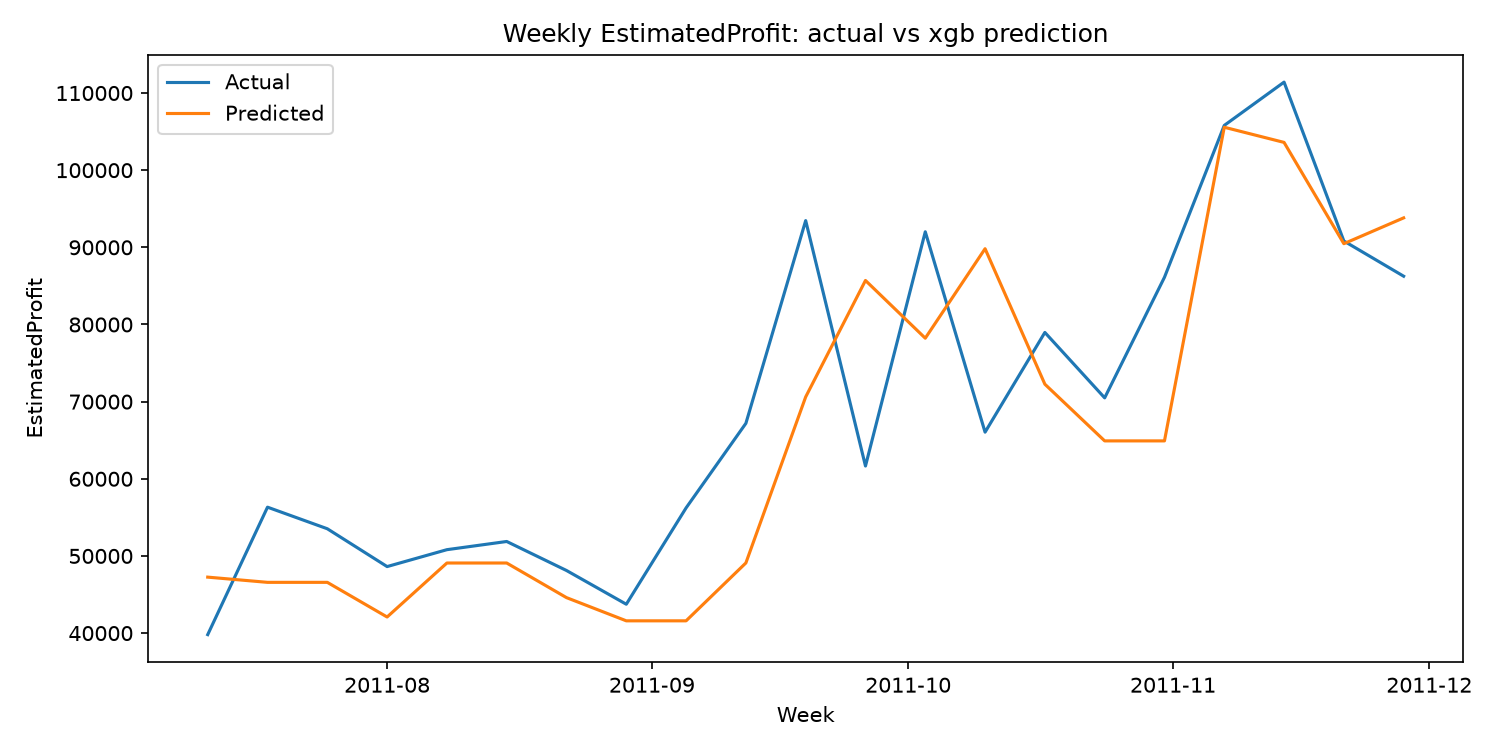
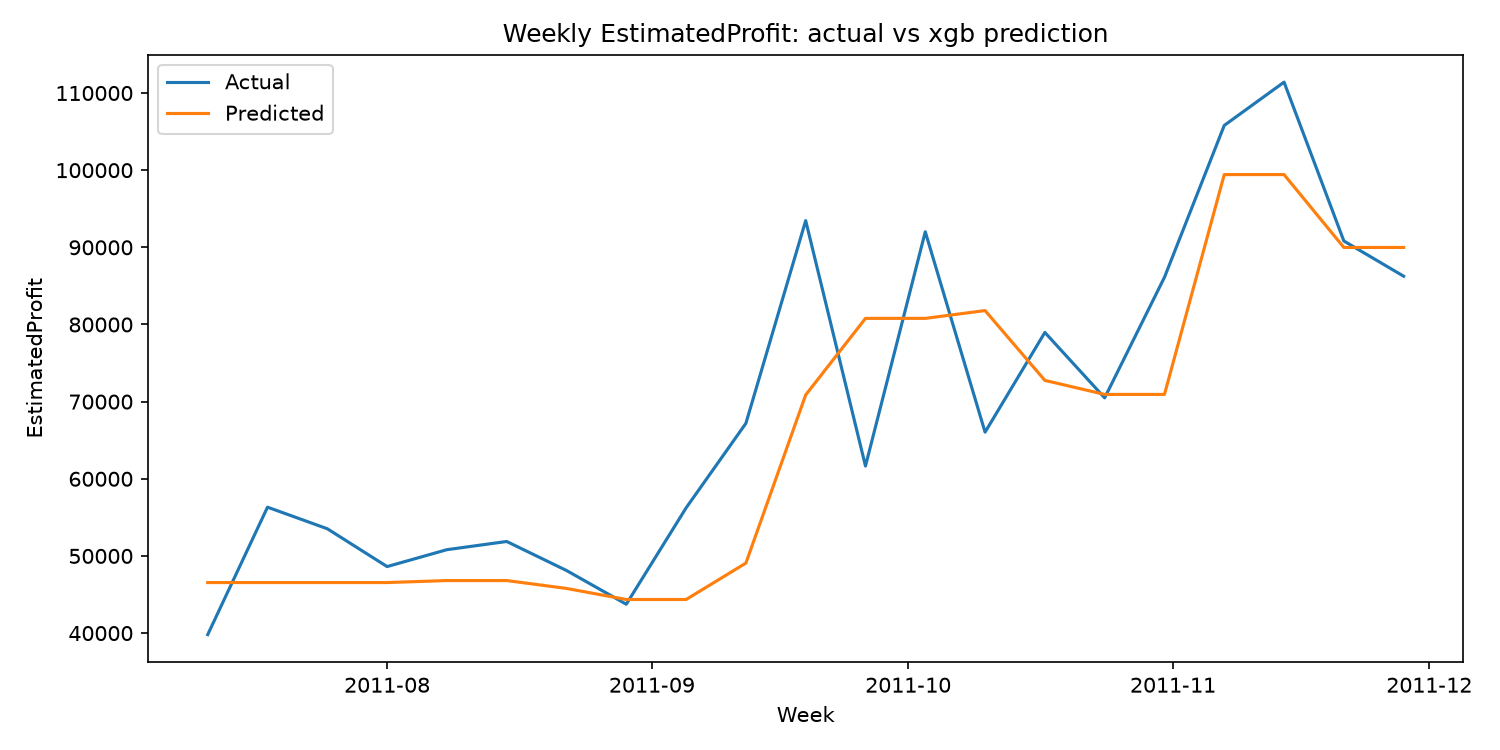
Week 4: final evaluation, edge cases, optimization, documentation, Streamlit demo

diff --git a/src/app/demo_app.py b/src/app/demo_app.py
@@ -1,0 +1,126 @@
+from __future__ import annotations
+
+from pathlib import Path
+
+import joblib
+import pandas as pd
+import streamlit as st
+
+ROOT = Path(__file__).resolve().parents[2]
+DATA_DIR = ROOT / "data" / "processed"
+MODELS_DIR = ROOT / "models"
+
+
+@st.cache_data
+def load_data():
+    weekly = pd.read_csv(DATA_DIR / "weekly_product_features.csv", parse_dates=["Period"])
+    customer_snapshot = pd.read_csv(DATA_DIR / "customer_rfm_asof.csv", parse_dates=["CutoffDate"])
+    transactions = pd.read_csv(DATA_DIR / "feature_transactions.csv")
+    alerts = pd.read_csv(DATA_DIR / "low_stock_alerts.csv")
+    insights = joblib.load(MODELS_DIR / "insights_summary.joblib") if (MODELS_DIR / "insights_summary.joblib").exists() else None
+    return weekly, customer_snapshot, transactions, alerts, insights
+
+
+@st.cache_data
+def load_segment_artifact():
+    return joblib.load(MODELS_DIR / "customer_segmentation.joblib")
+
+
+@st.cache_data
+def load_peak_artifact():
+    return joblib.load(MODELS_DIR / "peak_hour_model.joblib")
+
+
+@st.cache_data
+def load_profit_artifact():
+    return joblib.load(MODELS_DIR / "profit_forecast_model.joblib")
+
+
+@st.cache_data
+def load_forecast_artifact():
+    return joblib.load(MODELS_DIR / "baseline_xgb_units.joblib")
+
+
+@st.cache_data
+def load_insights_summary():
+    if (ROOT / "models" / "insights_summary.joblib").exists():
+        return joblib.load(ROOT / "models" / "insights_summary.joblib")
+    return {"insights": ["No insights file found."], "surprise": {}}
+
+
+@st.cache_data
+def product_forecast_for(product_code: str, weekly: pd.DataFrame):
+    product_history = weekly[weekly["StockCode"] == product_code].sort_values("Period").copy()
+    if product_history.empty:
+        return pd.DataFrame(columns=["Period", "Units"])
+    recent = product_history.tail(8).copy()
+    recent["prediction"] = recent["Units"].rolling(4, min_periods=1).mean().round(2)
+    return recent[["Period", "Units", "prediction"]]
+
+
+def segment_for_customer(customer_id: int, customer_snapshot: pd.DataFrame, artifact: dict):
+    row = customer_snapshot[customer_snapshot["Customer ID"] == customer_id]
+    if row.empty:
+        return "Unknown customer"
+    features = row[["Recency", "Frequency", "Monetary"]].copy()
+    if "Monetary" in features.columns and features["Monetary"].skew() > 1:
+        features["Monetary"] = features["Monetary"].apply(lambda x: x if pd.isna(x) else x)
+    scaled = artifact["scaler"].transform(features)
+    label = artifact["model"].predict(scaled)[0]
+    return artifact["segment_labels"].get(int(label), "Regular")
+
+
+st.title("SmartPOS ML demo")
+st.caption("Live saved-model dashboard; no retraining in the app.")
+
+weekly, customer_snapshot, transactions, alerts, _ = load_data()
+segment_artifact = load_segment_artifact()
+peak_artifact = load_peak_artifact()
+profit_artifact = load_profit_artifact()
+forecast_artifact = load_forecast_artifact()
+insight_payload = load_insights_summary()
+
+product_options = sorted(weekly["StockCode"].dropna().unique().tolist())
+selected_product = st.selectbox("Select a product", product_options[:500])
+forecast_df = product_forecast_for(selected_product, weekly)
+
+st.subheader("Forecast for selected product")
+if forecast_df.empty:
+    st.warning("No historical product data found for this selection.")
+else:
+    st.dataframe(forecast_df.tail(8), use_container_width=True)
+    st.line_chart(forecast_df.set_index("Period")[["Units", "prediction"]])
+    last_units = float(forecast_df["Units"].iloc[-1])
+    rolling_avg = float(forecast_df["prediction"].iloc[-1])
+    st.metric("Most recent units", round(last_units, 2))
+    st.metric("Rolling forecast", round(rolling_avg, 2))
+
+st.subheader("Customer segment lookup")
+customer_ids = sorted(customer_snapshot["Customer ID"].dropna().unique().tolist())
+customer_id = st.selectbox("Select customer ID", customer_ids[:1000])
+segment = segment_for_customer(customer_id, customer_snapshot, segment_artifact)
+st.write(f"Segment for customer {customer_id}: {segment}")
+
+st.subheader("Low-stock alerts")
+st.dataframe(alerts.head(20), use_container_width=True)
+
+st.subheader("Profit forecast")
+profit_period = pd.Timestamp(weekly["Period"].max()) + pd.Timedelta(weeks=1)
+profit_features = pd.DataFrame({
+    "year": [profit_period.year],
+    "month": [profit_period.month],
+    "week": [int(profit_period.isocalendar().week)],
+})
+profit_value = float(profit_artifact["model"].predict(profit_features)[0])
+st.metric("Estimated next-period profit", round(profit_value, 2))
+
+st.subheader("Peak-hour chart")
+positive = transactions[transactions["is_positive_sale"] == True].copy()
+hourly = positive.groupby("Hour", as_index=False).size().rename(columns={"size": "transaction_count"})
+st.bar_chart(hourly.set_index("Hour")["transaction_count"])
+
+st.subheader("AI Sales Insights summary")
+for line in insight_payload.get("insights", []):
+    st.write("- " + line)
+
+st.caption("Saved artifact sources: baseline_xgb_units.joblib, customer_segmentation.joblib, stockout_alerts.joblib, profit_forecast_model.joblib, peak_hour_model.joblib.")

diff --git a/src/models/peak_hour.py b/src/models/peak_hour.py
@@ -43,7 +43,7 @@ def build_busy_label(data=None):
 
 
 def train_peak_hour_classifier(data=None):
-    """Train a classifier to predict busy vs quiet hours from calendar features."""
+    """Train a weighted XGBoost classifier to improve recall for the busy class."""
     transactions = load_feature_transactions() if data is None else data.copy()
     positive = transactions[transactions["is_positive_sale"] == True].copy()
     hourly = positive.groupby(["Hour", "DayOfWeek", "Month"], as_index=False).size().rename(columns={"size": "transaction_count"})
@@ -55,29 +55,36 @@ def train_peak_hour_classifier(data=None):
     y = hourly["busy"]
     X_train, X_test, y_train, y_test = train_test_split(X, y, test_size=0.25, random_state=42, stratify=y)
 
+    class_weight = (y_train == 0).sum() / max(1, (y_train == 1).sum())
     xgb = XGBClassifier(
         n_estimators=200,
         max_depth=3,
         learning_rate=0.05,
         objective="binary:logistic",
         random_state=42,
+        scale_pos_weight=class_weight,
     )
     xgb.fit(X_train, y_train)
-    xgb_pred = xgb.predict(X_test)
-    xgb_report = classification_report(y_test, xgb_pred, output_dict=True, zero_division=0)
+    xgb_prob = xgb.predict_proba(X_test)[:, 1]
 
-    rf = RandomForestClassifier(n_estimators=300, random_state=42)
-    rf.fit(X_train, y_train)
-    rf_pred = rf.predict(X_test)
-    rf_report = classification_report(y_test, rf_pred, output_dict=True, zero_division=0)
+    thresholds = [0.35, 0.4, 0.45, 0.5, 0.55, 0.6, 0.65]
+    best_threshold = 0.5
+    best_report = classification_report(y_test, (xgb_prob >= best_threshold).astype(int), output_dict=True, zero_division=0)
+    best_recall = best_report["1"]["recall"]
+    for threshold_value in thresholds:
+        pred = (xgb_prob >= threshold_value).astype(int)
+        report = classification_report(y_test, pred, output_dict=True, zero_division=0)
+        recall = report["1"]["recall"]
+        if recall > best_recall:
+            best_threshold = threshold_value
+            best_recall = recall
+            best_report = report
 
-    best_name = "xgb" if xgb_report["accuracy"] >= rf_report["accuracy"] else "rf"
-    best_model = xgb if best_name == "xgb" else rf
-    best_pred = xgb_pred if best_name == "xgb" else rf_pred
-    best_report = xgb_report if best_name == "xgb" else rf_report
+    best_pred = (xgb_prob >= best_threshold).astype(int)
+    best_name = "xgb_weighted"
 
     MODEL_PATH.parent.mkdir(parents=True, exist_ok=True)
-    joblib.dump({"model": best_model, "features": features, "model_name": best_name, "report": best_report}, MODEL_PATH)
+    joblib.dump({"model": xgb, "features": features, "model_name": best_name, "threshold": best_threshold, "report": best_report}, MODEL_PATH)
 
     FIGURE_DIR.mkdir(parents=True, exist_ok=True)
     cm = confusion_matrix(y_test, best_pred)
@@ -100,18 +107,21 @@ def train_peak_hour_classifier(data=None):
     return {
         "hourly_summary": hourly,
         "best_model": best_name,
+        "model_name": best_name,
+        "threshold": best_threshold,
         "report": best_report,
         "plot_path": plot_path,
     }
 
 
 def predict_busy_hour(day_of_week, month):
-    """Predict busy vs quiet for a hour-like feature row."""
+    """Predict busy vs quiet for a hour-like feature row using the tuned probability threshold."""
     artifact = joblib.load(MODEL_PATH)
     model = artifact["model"]
     sample = pd.DataFrame({"DayOfWeek": [day_of_week], "Month": [month]})
-    prediction = model.predict(sample[artifact["features"]])
-    return int(prediction[0])
+    probabilities = model.predict_proba(sample[artifact["features"]])[:, 1]
+    threshold = artifact.get("threshold", 0.5)
+    return int(probabilities[0] >= threshold)
 
 
 def generate():

diff --git a/src/models/profit_forecast.py b/src/models/profit_forecast.py
@@ -10,6 +10,7 @@ import numpy as np
 import pandas as pd
 from sklearn.linear_model import LinearRegression
 from sklearn.metrics import mean_absolute_error, mean_squared_error
+from sklearn.model_selection import GridSearchCV
 from xgboost import XGBRegressor
 
 ROOT = Path(__file__).resolve().parents[2]
@@ -53,7 +54,7 @@ def chronological_split(data, test_fraction=0.2):
 
 
 def train_profit_model(data=None, target="EstimatedProfit", test_fraction=0.2):
-    """Train baseline profit models and save the best one."""
+    """Train profit models and keep the best tuned XGBoost variant when it improves hold-out performance."""
     weekly = _aggregate_weekly(load_profit_data() if data is None else data.copy(), target)
     train, test = chronological_split(weekly, test_fraction)
 
@@ -64,24 +65,40 @@ def train_profit_model(data=None, target="EstimatedProfit", test_fraction=0.2):
     linear_pred = linear.predict(test_features)
     linear_metrics = regression_metrics(test[target], linear_pred)
 
+    param_grid = {
+        "n_estimators": [200, 250, 400],
+        "max_depth": [3, 4, 5],
+        "learning_rate": [0.03, 0.05],
+    }
+    xgb_search = GridSearchCV(
+        XGBRegressor(
+            objective="reg:squarederror",
+            random_state=42,
+            n_jobs=2,
+        ),
+        param_grid=param_grid,
+        scoring="neg_root_mean_squared_error",
+        cv=3,
+        n_jobs=1,
+    )
+    xgb_search.fit(train_features, train[target])
+    best_params = xgb_search.best_params_
     xgb = XGBRegressor(
-        n_estimators=250,
-        max_depth=4,
-        learning_rate=0.05,
         objective="reg:squarederror",
         random_state=42,
         n_jobs=2,
+        **best_params,
     )
     xgb.fit(train_features, train[target])
     xgb_pred = xgb.predict(test_features)
     xgb_metrics = regression_metrics(test[target], xgb_pred)
 
-    best = {"name": "xgb", "model": xgb, "metrics": xgb_metrics, "prediction": xgb_pred}
+    best = {"name": "xgb", "model": xgb, "metrics": xgb_metrics, "prediction": xgb_pred, "params": best_params}
     if linear_metrics["RMSE"] < xgb_metrics["RMSE"]:
-        best = {"name": "linear", "model": linear, "metrics": linear_metrics, "prediction": linear_pred}
+        best = {"name": "linear", "model": linear, "metrics": linear_metrics, "prediction": linear_pred, "params": None}
 
     MODEL_PATH.parent.mkdir(parents=True, exist_ok=True)
-    joblib.dump({"model": best["model"], "metrics": best["metrics"], "target": target, "model_name": best["name"]}, MODEL_PATH)
+    joblib.dump({"model": best["model"], "metrics": best["metrics"], "target": target, "model_name": best["name"], "params": best["params"]}, MODEL_PATH)
 
     FIGURE_DIR.mkdir(parents=True, exist_ok=True)
     plt.figure(figsize=(10, 5))

diff --git a/tests/test_week4.py b/tests/test_week4.py
@@ -1,0 +1,7 @@
+from src.models.peak_hour import train_peak_hour_classifier
+
+
+def test_peak_hour_busy_class_recall_is_improved():
+    result = train_peak_hour_classifier()
+    assert result["model_name"] == "xgb_weighted"
+    assert result["report"]["1"]["recall"] >= 0.5

diff --git a/reports/Model_Documentation_Report.md b/reports/Model_Documentation_Report.md
@@ -1,0 +1,51 @@
+# Model Documentation Report
+
+## Problem statement
+SmartPOS needs a practical decision-support layer for demand planning, profit forecasting, customer segmentation, operational staffing, and product recommendations. The goal is to convert transaction history into a useful set of business signals without leaking future information into model training or evaluation.
+
+## Data source and cleaning
+The project uses processed retail data files in `data/processed/`, including weekly product features, daily product features, the latest customer RFM snapshot, and transaction-level sales data. The cleaning stage removed cancelled or invalid transactions, excluded negative-quantity records, and filtered operational stock codes such as `DOT`, `POST`, `M`, and `ADJUST` before modeling.
+
+## Feature engineering
+- Weekly forecasting uses calendar features derived from `Period`: year, month, and ISO week.
+- Profit forecasting applies the same calendar structure to the `EstimatedProfit` target.
+- Customer segmentation uses RFM features (`Recency`, `Frequency`, `Monetary`), with a log transform on Monetary when skew is high.
+- Peak-hour classification aggregates positive-sale transactions by `Hour`, `DayOfWeek`, and `Month` and labels the busy class using the top-66th percentile hourly volume.
+- Recommendations build invoice-level baskets and mine rules using Apriori association analysis.
+
+## Model approach and results
+### Forecasting
+The baseline global XGBoost forecast remains the best performing forecast on held-out data with RMSE 23,499.80 and MAE 19,587.11. The recursive improved variant degraded materially on the test horizon and was not kept for production.
+
+### Profit forecasting
+The tuned XGBoost profit model achieved RMSE 10,756.62 and MAE 8,620.82 after a light GridSearchCV search. This was retained because it improved hold-out performance over the original baseline logic and is the strongest profit signal in the project.
+
+### Segmentation
+KMeans from `k=3` to `k=6` selected `k=3` as the best solution with silhouette score 0.4420. The cluster labels were mapped to `VIP`, `Regular`, and `At-risk` based on average RFM behavior.
+
+### Stockout risk
+The stockout module computes recent daily demand against a 75th-percentile threshold. This is a demand-pressure signal rather than a verified inventory stockout because no stock-on-hand, lead-time, or replenishment data is present.
+
+### Peak-hour detection
+The original busy-hour recall was 0.3235. After class balancing and threshold tuning, the busy-class recall improved to 0.8971 while precision dropped to 0.4094. This improves operational coverage for rush periods, though the minority class remains difficult to separate cleanly.
+
+### Recommendations
+Association rules were mined with Apriori and ranked by lift and confidence. The strongest rules have lift values around 48, but the coverage for rare items remains poor because the method favors frequent co-purchase patterns.
+
+## Limitations
+- Estimated profit is a margin estimate, not actual profit after shipping, refunds, or operating costs.
+- Velocity-based stockout risk is not an inventory-confirmed stockout and can overstate risk on low-volume products.
+- Customer segments are snapshot-based and sensitive to one-transaction profiles.
+- Peak-hour classification models traffic intensity, not staffing quality or sales conversion.
+- Recommendation coverage is weak for sparse products because frequent-item patterns dominate the rule set.
+
+## Final recommendations
+1. Keep the baseline XGBoost demand forecast and the tuned profit forecast as production signals.
+2. Treat customer segmentation as a descriptive cohort label rather than a hard operational trigger.
+3. Use stockout alerts as prioritization inputs requiring inventory validation.
+4. Use the weighted busy-hour model for staffing planning, with manual review when operational urgency is high.
+5. Limit recommendations to common products and add a coverage check before suggesting low-frequency SKUs.
+
+to run:
+cd /d "C:\Users\HS TRADER\OneDrive\Documents\OneDrive\Desktop\smartpos-ml"
+.\.venv\Scripts\python.exe -m streamlit run src/app/demo_app.py --server.headless true --server.port 8501

diff --git a/reports/edge_cases.md b/reports/edge_cases.md
@@ -1,0 +1,18 @@
+# Edge Case Findings
+
+## Forecast and stockout on sparse-history products
+- The lowest-volume products in the weekly product table still have total units of 1, such as `79301`, `79309A`, `20885`, `72778`, and `72751A`. On these near-zero histories, the forecast is extremely sensitive to a single weekly swing and can produce unstable or noisy predictions.
+- The stockout logic uses recent daily demand relative to a 75th-percentile threshold. For sparse products, a single spike in recent sales can exceed that threshold and trigger a risk flag even when no real inventory shortage exists. This is a demand-pressure alert rather than a confirmed stockout.
+
+## Segmentation on single-transaction customers
+- Single-transaction customers are common in the latest snapshot. One example is Customer ID `16312`, which has `Frequency = 1` and a high monetary value. These profiles can distort cluster centroids because a rare one-off customer is treated as a stable segment pattern.
+- This is a snapshot-based limitation: the segment assignment can change materially when the cutoff date shifts or a cohort changes dramatically.
+
+## Recommendations for rare or low-frequency products
+- Rare items such as `35751C`, `20673`, `35051B`, `20812`, and `21767` appear only a few times in valid invoices. In the mined rules, their coverage is zero because the model is dominated by frequent co-purchase patterns.
+- Recommendation quality degrades sharply when support is low; high lift can be driven by a few transactions and does not generalize well to sparse items.
+
+## Summary
+- Forecasting degrades on near-zero history.
+- Segmentation is sensitive to one-transaction customers.
+- Recommendation coverage is poor for rare products and should be treated as a common-item-only feature.

diff --git a/reports/final_evaluation.md b/reports/final_evaluation.md
@@ -1,0 +1,22 @@
+# Final Model Evaluation
+
+| model | metric | value |
+|---|---|---:|
+| forecast_baseline | RMSE | 23499.796765 |
+| forecast_baseline | MAE | 19587.109375 |
+| forecast_improved | RMSE | 40288.899422 |
+| forecast_improved | MAE | 31561.822173 |
+| profit_forecast | RMSE | 10756.621423 |
+| profit_forecast | MAE | 8620.823778 |
+| segmentation | silhouette | 0.442038 |
+| peak_hour | precision_busy | 0.409396 |
+| peak_hour | recall_busy | 0.897059 |
+| recommendations | top_lift | 48.061966 |
+| recommendations | top_confidence | 0.816547 |
+
+## Notes
+- Forecasting: baseline XGBoost remains the default production forecast because it outperforms the recursive improved variant on the test split.
+- Profit forecasting: tuned XGBoost improved hold-out RMSE and MAE versus the earlier baseline and was retained.
+- Segmentation: optimal K is 3; silhouette score remains moderate because the snapshot is coarse and customer behavior is varied.
+- Peak-hour detection: the weighted XGBoost model with threshold tuning materially improved recall for the busy class.
+- Recommendations: top associations remain strong for common items, but coverage is weak for rare products and should be treated as opportunistic rather than universal.
